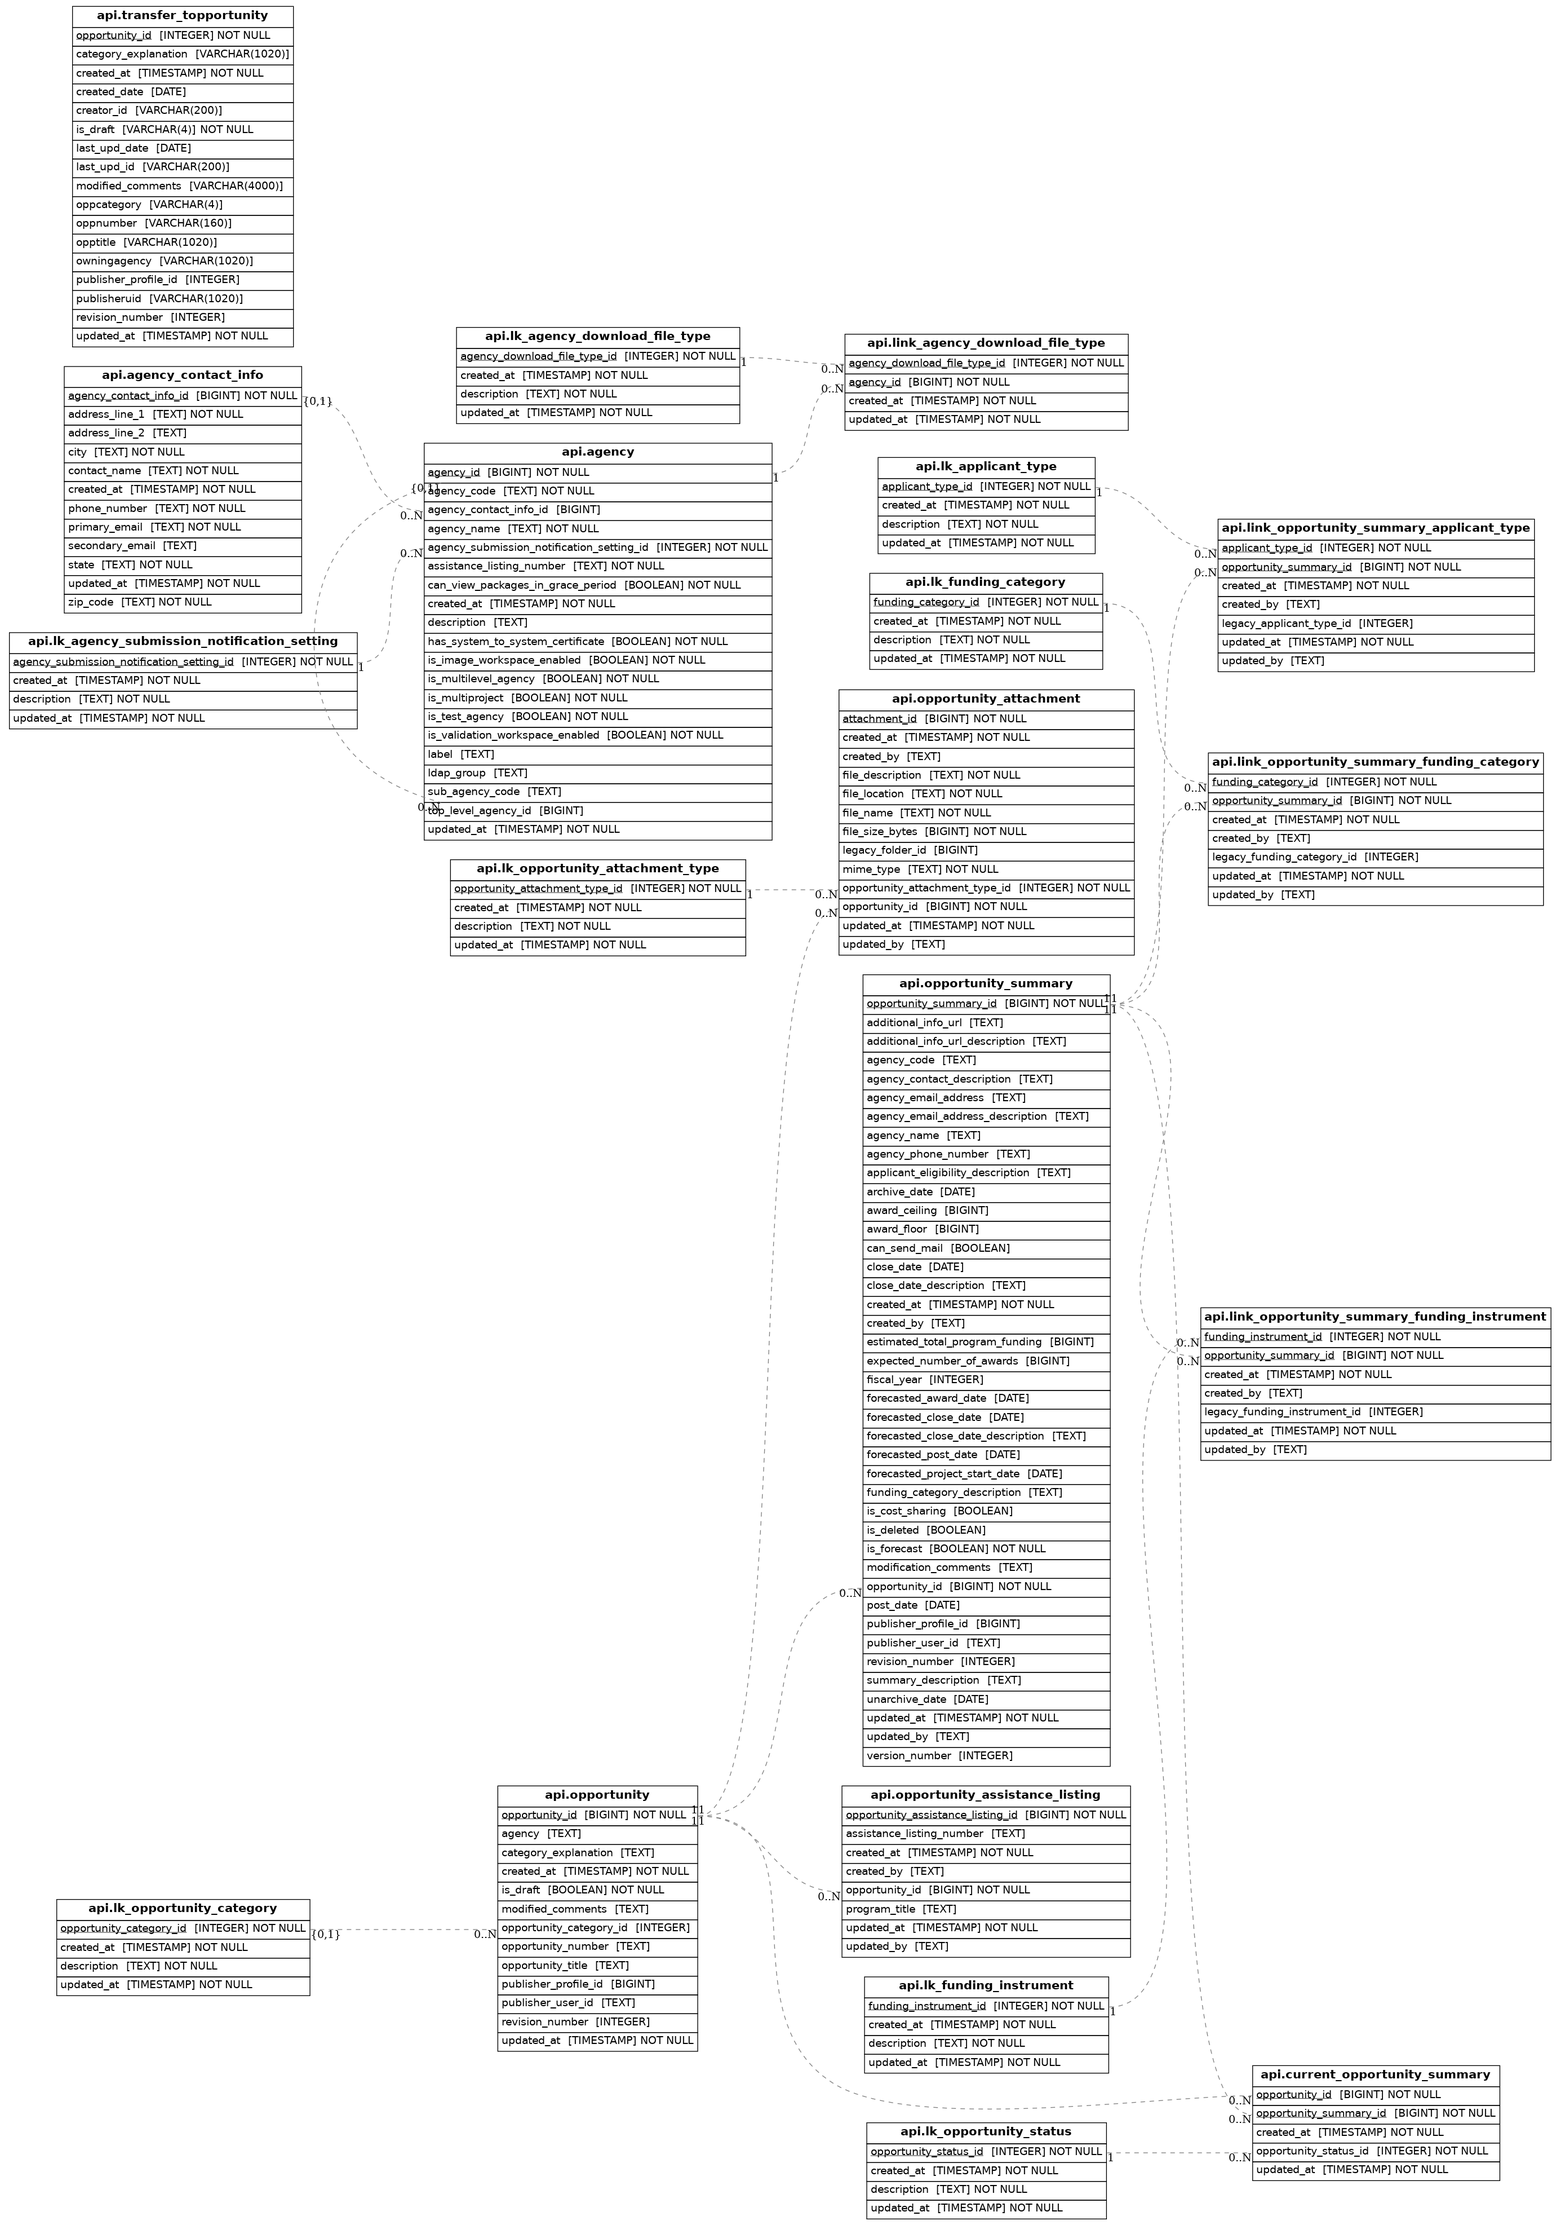
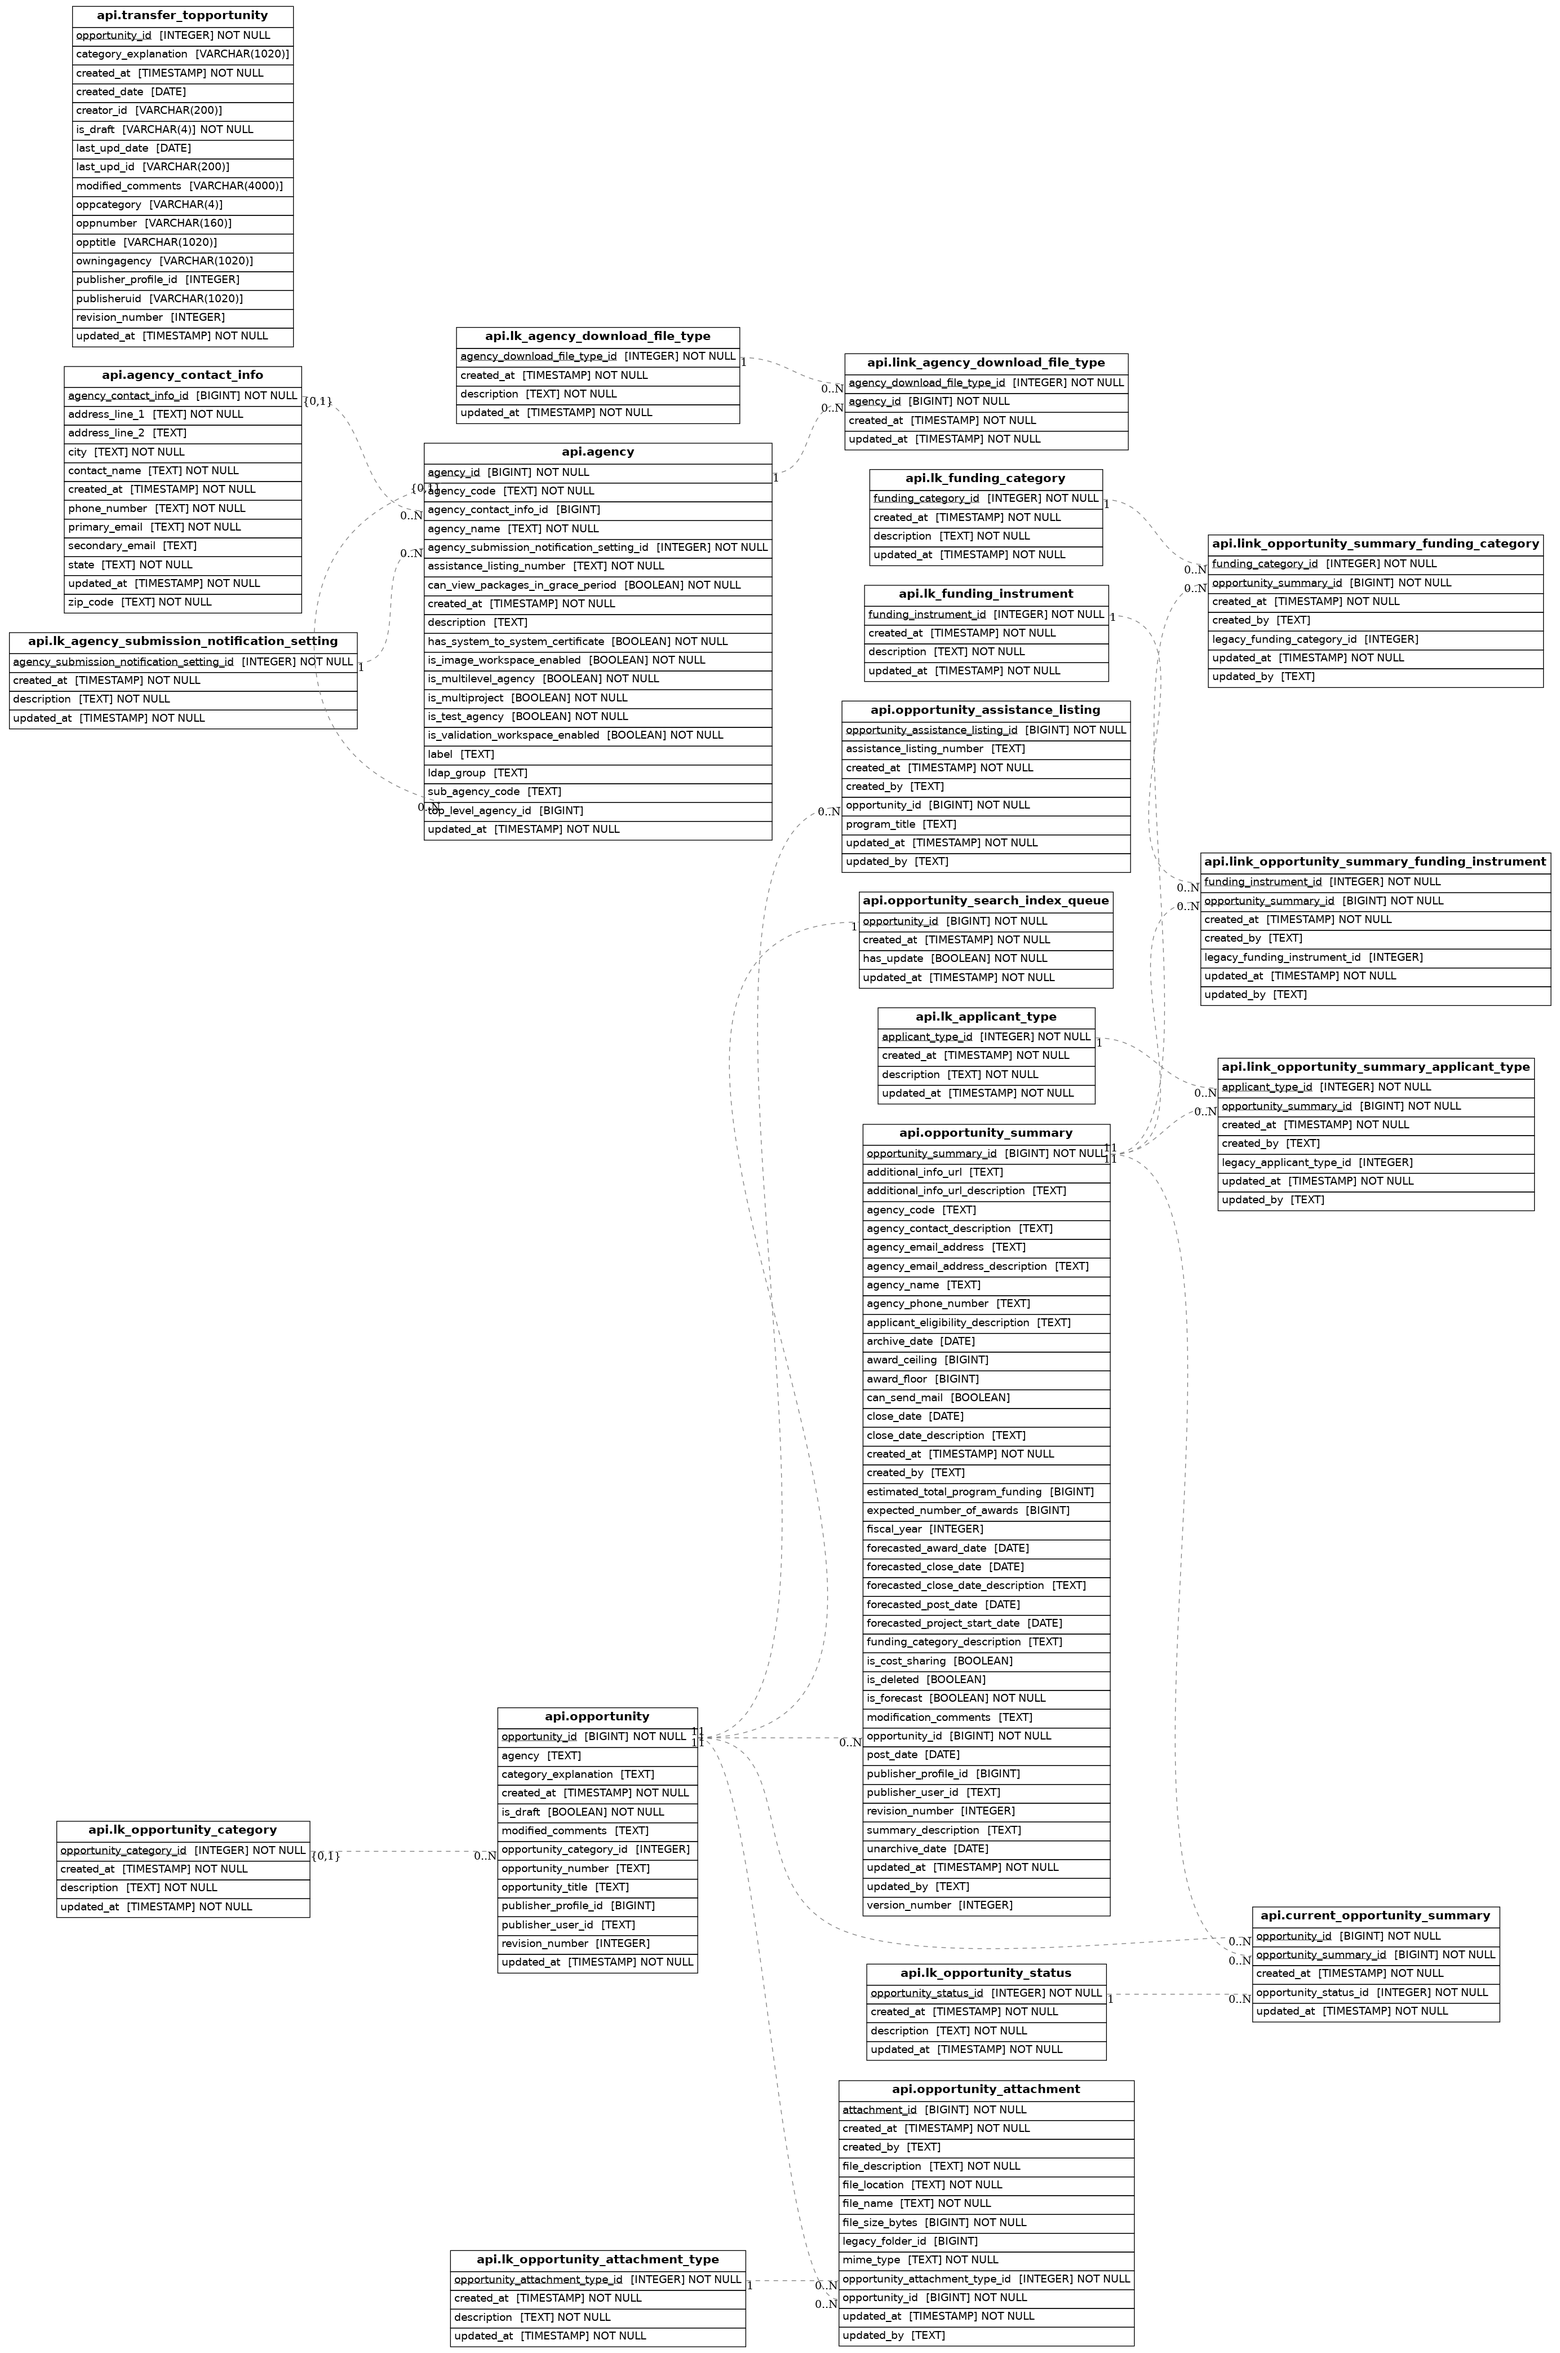
[Issue #2602] Create a table to act as a queue for updated opportunities (#2607)
Summary
Fixes #2602

Time to review: 5 mins

Changes proposed
Create new db table which will be used for subsequent tracking of
opportunities that need to be updated in the search index.

Context for reviewers
This table will be used by the search index load job to know what
opportunities need to be updated, and will be populated by triggers on
other opportunity related tables.

diff --git a/api/src/db/migrations/versions/2024_10_28_add_opportunity_search_index_queue_table.py b/api/src/db/migrations/versions/2024_10_28_add_opportunity_search_index_queue_table.py
@@ -1,0 +1,63 @@
+"""Add opportunity_search_index_queue table
+
+Revision ID: a2e9144cdc6b
+Revises: 39f7f941fc6c
+Create Date: 2024-10-28 17:09:18.569197
+
+"""
+
+import sqlalchemy as sa
+from alembic import op
+
+# revision identifiers, used by Alembic.
+revision = "a2e9144cdc6b"
+down_revision = "39f7f941fc6c"
+branch_labels = None
+depends_on = None
+
+
+def upgrade():
+    # ### commands auto generated by Alembic - please adjust! ###
+    op.create_table(
+        "opportunity_search_index_queue",
+        sa.Column("opportunity_id", sa.BigInteger(), nullable=False),
+        sa.Column("has_update", sa.Boolean(), nullable=False),
+        sa.Column(
+            "created_at",
+            sa.TIMESTAMP(timezone=True),
+            server_default=sa.text("now()"),
+            nullable=False,
+        ),
+        sa.Column(
+            "updated_at",
+            sa.TIMESTAMP(timezone=True),
+            server_default=sa.text("now()"),
+            nullable=False,
+        ),
+        sa.ForeignKeyConstraint(
+            ["opportunity_id"],
+            ["api.opportunity.opportunity_id"],
+            name=op.f("opportunity_search_index_queue_opportunity_id_opportunity_fkey"),
+        ),
+        sa.PrimaryKeyConstraint("opportunity_id", name=op.f("opportunity_search_index_queue_pkey")),
+        schema="api",
+    )
+    op.create_index(
+        op.f("opportunity_search_index_queue_opportunity_id_idx"),
+        "opportunity_search_index_queue",
+        ["opportunity_id"],
+        unique=False,
+        schema="api",
+    )
+    # ### end Alembic commands ###
+
+
+def downgrade():
+    # ### commands auto generated by Alembic - please adjust! ###
+    op.drop_index(
+        op.f("opportunity_search_index_queue_opportunity_id_idx"),
+        table_name="opportunity_search_index_queue",
+        schema="api",
+    )
+    op.drop_table("opportunity_search_index_queue", schema="api")
+    # ### end Alembic commands ###

diff --git a/api/src/db/models/opportunity_models.py b/api/src/db/models/opportunity_models.py
@@ -427,3 +427,13 @@ class OpportunityAttachment(ApiSchemaTable, TimestampMixin):
     created_by: Mapped[str | None]
     updated_by: Mapped[str | None]
     legacy_folder_id: Mapped[int | None] = mapped_column(BigInteger)
+
+
+class OpportunitySearchIndexQueue(ApiSchemaTable, TimestampMixin):
+    __tablename__ = "opportunity_search_index_queue"
+
+    opportunity_id: Mapped[int] = mapped_column(
+        BigInteger, ForeignKey(Opportunity.opportunity_id), primary_key=True, index=True
+    )
+    opportunity: Mapped[Opportunity] = relationship(Opportunity)
+    has_update: Mapped[bool]
